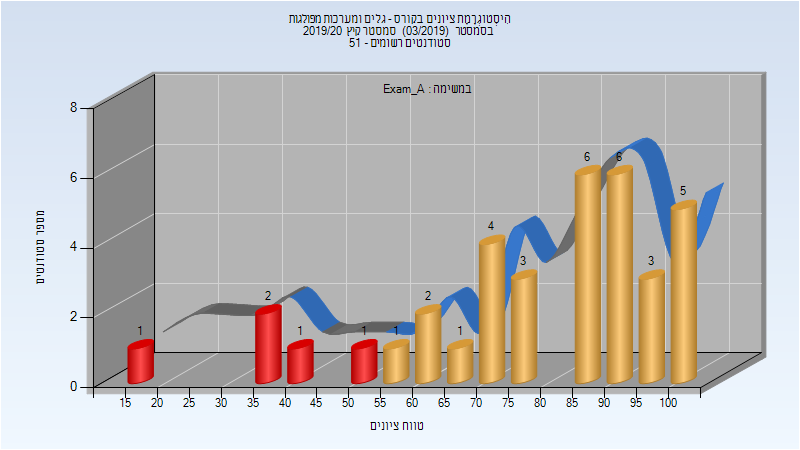
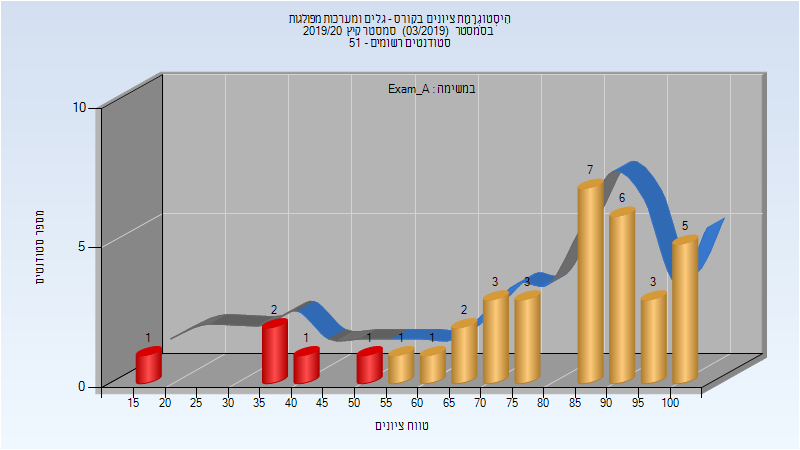
Deploy michael-maltsev/technion-histograms to github.com/michael-maltsev/technion-histograms.git:gh-pages

diff --git a/044148/index.html b/044148/index.html
@@ -2311,8 +2311,8 @@
 <td>86</td>
 <td>19</td>
 <td>100</td>
-<td>78.167</td>
-<td>85.5</td>
+<td>78.75</td>
+<td>86</td>
 </tr>
 </tbody>
 </table>
@@ -2333,12 +2333,90 @@
 <tbody>
 <tr>
 <td>36</td>
-<td>32/4</td>
-<td>89</td>
+<td>33/3</td>
+<td>92</td>
 <td>35</td>
 <td>100</td>
-<td>82.361</td>
-<td>88</td>
+<td>82.833</td>
+<td>88.5</td>
+</tr>
+</tbody>
+</table>
+<h3>מבחן מועד ב'</h3>
+<p><img src="201903/Exam_B.png" alt="201903 Exam_B" /></p>
+<table>
+<thead>
+<tr>
+<th>סטודנטים</th>
+<th>עברו/נכשלו</th>
+<th>אחוז עוברים</th>
+<th>ציון מינימלי</th>
+<th>ציון מקסימלי</th>
+<th>ממוצע</th>
+<th>חציון</th>
+</tr>
+</thead>
+<tbody>
+<tr>
+<td>20</td>
+<td>15/5</td>
+<td>75</td>
+<td>18.5</td>
+<td>100</td>
+<td>65.8</td>
+<td>66</td>
+</tr>
+</tbody>
+</table>
+<h3>סופי מועד ב'</h3>
+<p><img src="201903/Final_B.png" alt="201903 Final_B" /></p>
+<table>
+<thead>
+<tr>
+<th>סטודנטים</th>
+<th>עברו/נכשלו</th>
+<th>אחוז עוברים</th>
+<th>ציון מינימלי</th>
+<th>ציון מקסימלי</th>
+<th>ממוצע</th>
+<th>חציון</th>
+</tr>
+</thead>
+<tbody>
+<tr>
+<td>20</td>
+<td>18/2</td>
+<td>90</td>
+<td>35</td>
+<td>100</td>
+<td>72.45</td>
+<td>72.5</td>
+</tr>
+</tbody>
+</table>
+<h3>סופי</h3>
+<p><img src="201903/Finals.png" alt="201903 Finals" /></p>
+<table>
+<thead>
+<tr>
+<th>סטודנטים</th>
+<th>עברו/נכשלו</th>
+<th>אחוז עוברים</th>
+<th>ציון מינימלי</th>
+<th>ציון מקסימלי</th>
+<th>ממוצע</th>
+<th>חציון</th>
+</tr>
+</thead>
+<tbody>
+<tr>
+<td>36</td>
+<td>33/3</td>
+<td>92</td>
+<td>35</td>
+<td>100</td>
+<td>82.833</td>
+<td>88.5</td>
 </tr>
 </tbody>
 </table>

diff --git a/044148/README.md b/044148/README.md
@@ -718,7 +718,7 @@
 
 | סטודנטים | עברו/נכשלו | אחוז עוברים | ציון מינימלי | ציון מקסימלי | ממוצע | חציון |
 | ---- | ---- | ---- | ---- | ---- | ---- | ---- |
-| 36 | 31/5 | 86 | 19 | 100 | 78.167 | 85.5 |
+| 36 | 31/5 | 86 | 19 | 100 | 78.75 | 86 |
 
 ### סופי מועד א'
 
@@ -726,5 +726,29 @@
 
 | סטודנטים | עברו/נכשלו | אחוז עוברים | ציון מינימלי | ציון מקסימלי | ממוצע | חציון |
 | ---- | ---- | ---- | ---- | ---- | ---- | ---- |
-| 36 | 32/4 | 89 | 35 | 100 | 82.361 | 88 |
+| 36 | 33/3 | 92 | 35 | 100 | 82.833 | 88.5 |
+
+### מבחן מועד ב'
+
+![201903 Exam_B](201903/Exam_B.png)
+
+| סטודנטים | עברו/נכשלו | אחוז עוברים | ציון מינימלי | ציון מקסימלי | ממוצע | חציון |
+| ---- | ---- | ---- | ---- | ---- | ---- | ---- |
+| 20 | 15/5 | 75 | 18.5 | 100 | 65.8 | 66 |
+
+### סופי מועד ב'
+
+![201903 Final_B](201903/Final_B.png)
+
+| סטודנטים | עברו/נכשלו | אחוז עוברים | ציון מינימלי | ציון מקסימלי | ממוצע | חציון |
+| ---- | ---- | ---- | ---- | ---- | ---- | ---- |
+| 20 | 18/2 | 90 | 35 | 100 | 72.45 | 72.5 |
+
+### סופי
+
+![201903 Finals](201903/Finals.png)
+
+| סטודנטים | עברו/נכשלו | אחוז עוברים | ציון מינימלי | ציון מקסימלי | ממוצע | חציון |
+| ---- | ---- | ---- | ---- | ---- | ---- | ---- |
+| 36 | 33/3 | 92 | 35 | 100 | 82.833 | 88.5 |
 
